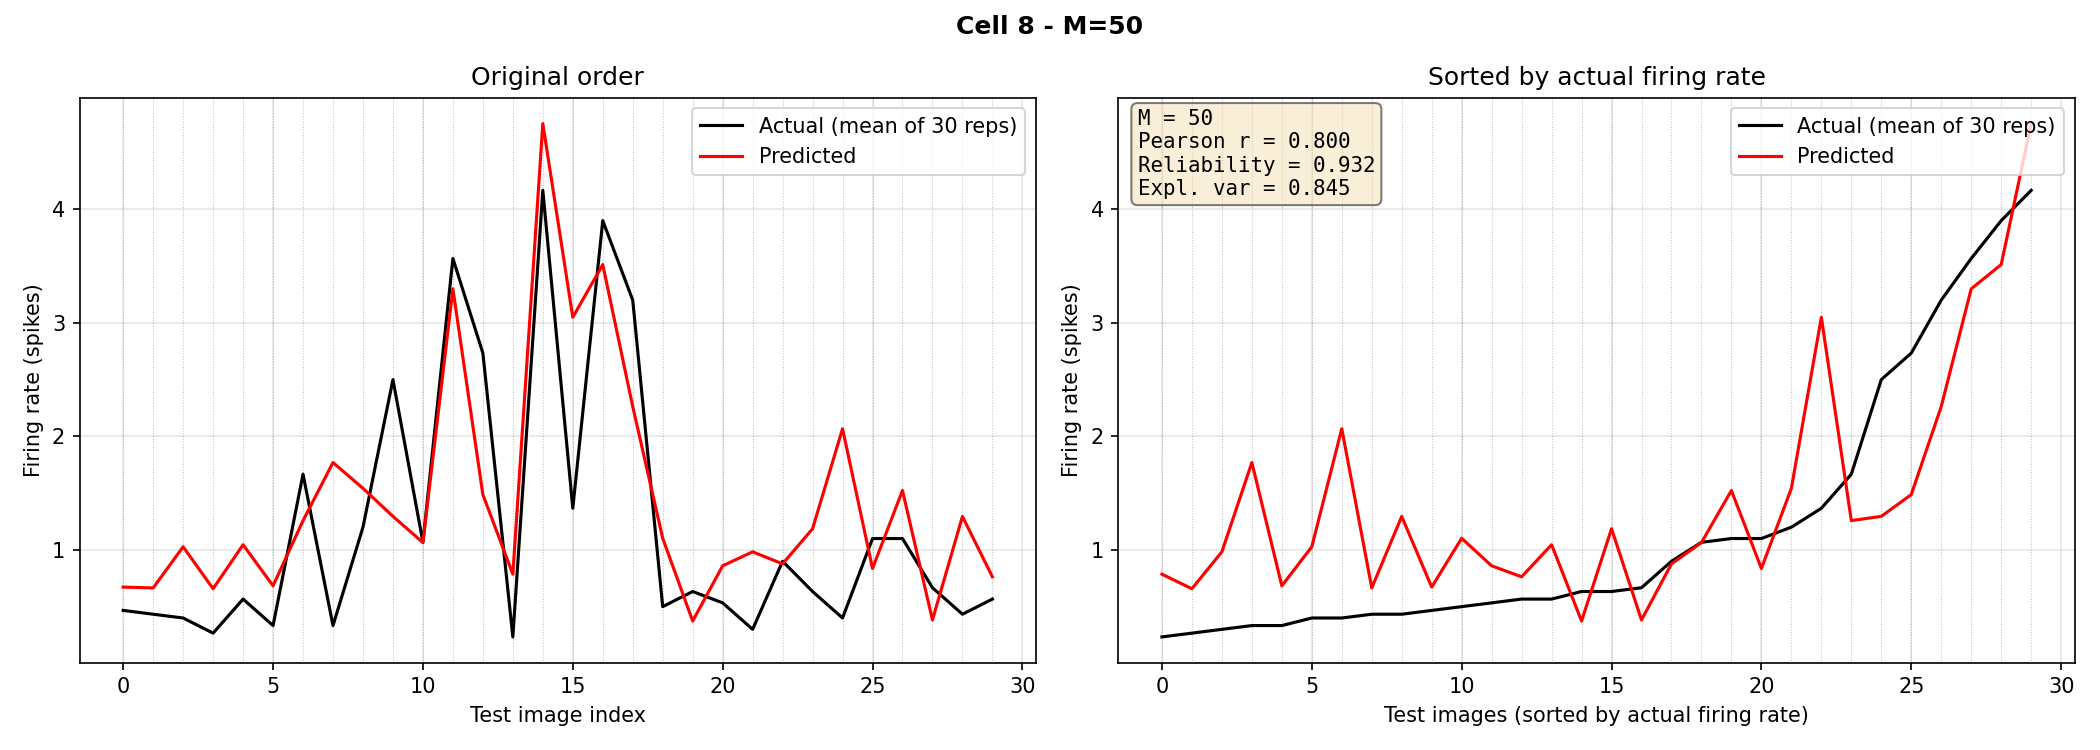
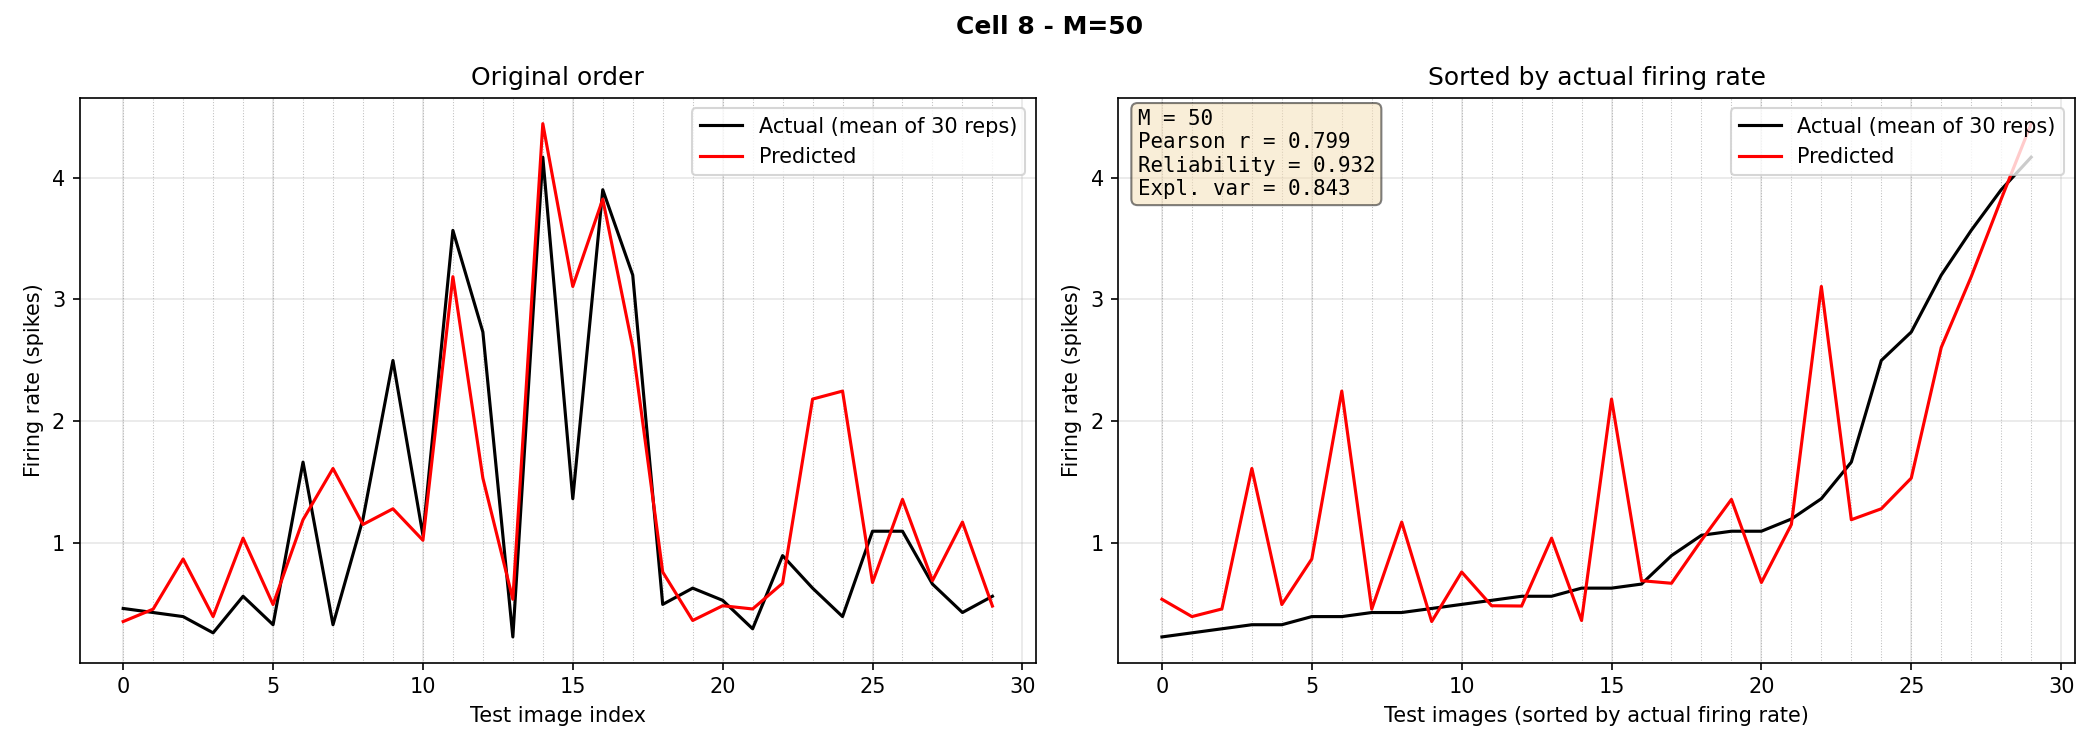
Deprecate LBFGS m_step functions, update guidelines
- Deprecate m_step_lbfgs() and m_step_lbfgs_grouped() with NotImplementedError
  (don't support hyperparameter clamping, use Adam-based m_step() instead)
- Add reproducibility requirement to WORKING_GUIDELINES.md (no random elements)
- Add git safety rule (check branch before commits)
- Update test result plot

diff --git a/Spatial_GP_repo/scripts/gpytorch_porting/estep.py b/Spatial_GP_repo/scripts/gpytorch_porting/estep.py
@@ -1202,7 +1202,15 @@ def m_step_lbfgs(
         lr: Learning rate for LBFGS (default 0.1 matches varGP)
         verbose: Print debug info
         debug: Print detailed debugging info
+
+    DEPRECATED: This function does not support hyperparameter clamping.
+    Use m_step() instead.
     """
+    raise NotImplementedError(
+        "m_step_lbfgs() is deprecated and does not support hyperparameter clamping. "
+        "Use m_step() (Adam-based) instead."
+    )
+
     if n_mstep == 0:
         return
 
@@ -1348,7 +1356,15 @@ def m_step_lbfgs_grouped(
         lr_sigma0: Learning rate for sigma_0 (default 10x larger)
         lr_other: Learning rate for other parameters
         verbose: Print debug info
+
+    DEPRECATED: This function does not support hyperparameter clamping.
+    Use m_step() instead.
     """
+    raise NotImplementedError(
+        "m_step_lbfgs_grouped() is deprecated and does not support hyperparameter clamping. "
+        "Use m_step() (Adam-based) instead."
+    )
+
     if n_mstep == 0:
         return
 

diff --git a/Spatial_GP_repo/scripts/gpytorch_porting/.claude/WORKING_GUIDELINES.md b/Spatial_GP_repo/scripts/gpytorch_porting/.claude/WORKING_GUIDELINES.md
@@ -226,6 +226,7 @@ This prevents losing results during session compaction. Complements Section 5.5 
 3. **Include reproduction command** in the script's docstring or in CLAUDE.md
 
 **Script requirements**:
+- DOES NOT ALLOW RANDOM ELEMENTS . seeds are controlled and same code execution should produce EXACTLY THE SAME RESULTS.
 - Self-contained (loads data, runs test, prints results)
 - Configurable via command-line args for key parameters
 - Prints the metrics that are documented
@@ -277,6 +278,10 @@ The user is new to git. Provide occasional nudges, but don't make version contro
 - One reminder per natural milestone is enough
 - If the user ignores the suggestion, move on
 - Git is a tool, not the goal
+
+## 8.4 Git safety
+   Always run `git branch --show-current` before making commits or 
+   switching branches. Confirm with me before any branch operations.
 
 ---
 
